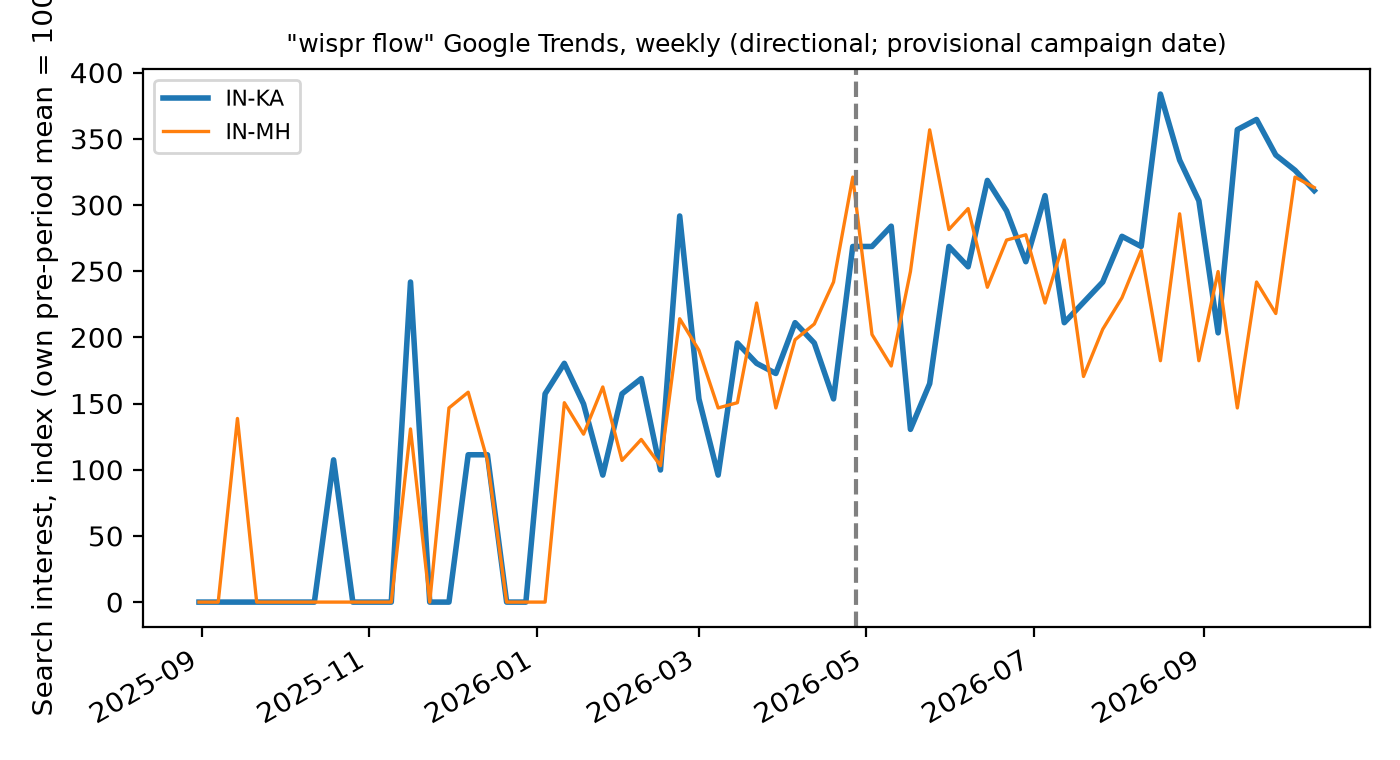
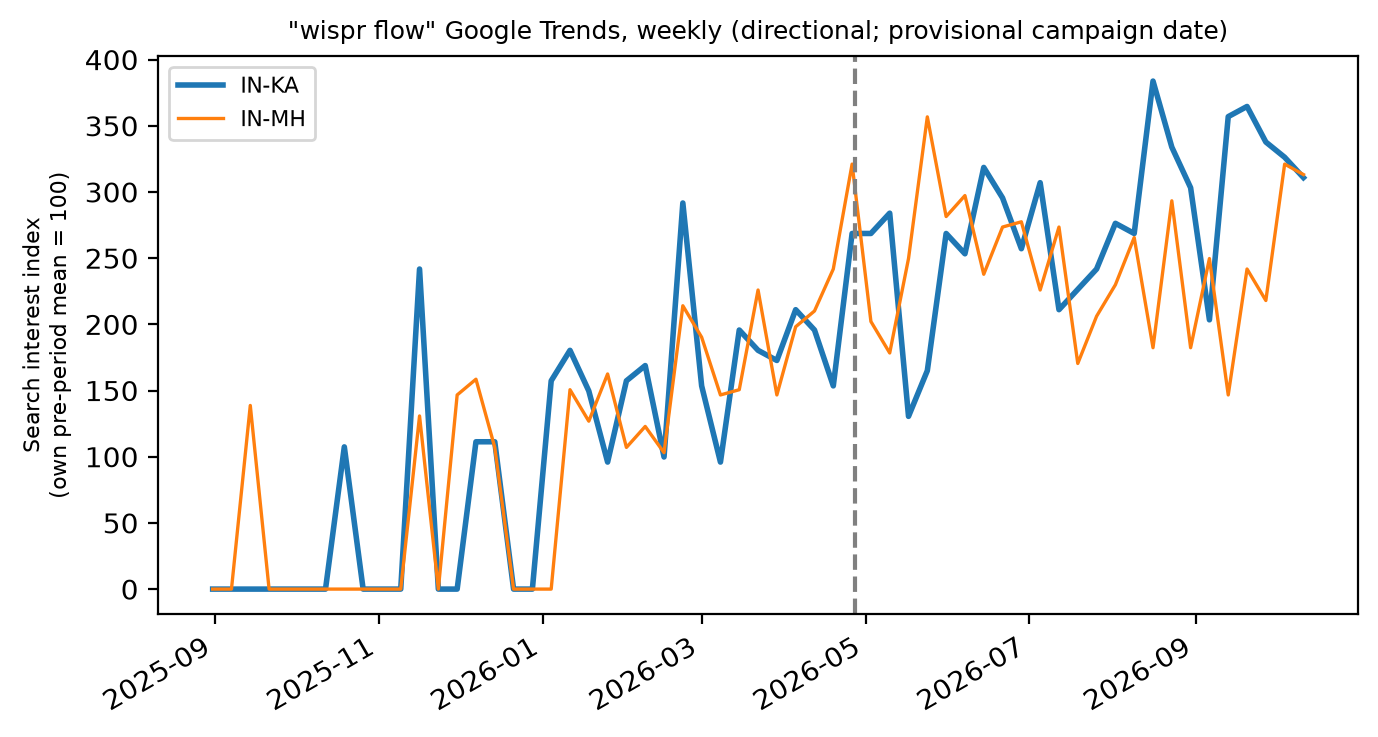
Fix clipped y-axis label on the Trends chart (smaller font, tight export)

diff --git a/src/analysis/run_p6.py b/src/analysis/run_p6.py
@@ -63,12 +63,12 @@ def a3():
         for g, s in series.items():
             ax.plot(s.index, s.values, label=g, lw=2 if g == "IN-KA" else 1.2)
         ax.axvline(EVENT, color="grey", ls="--")
-        ax.set_ylabel("Search interest, index (own pre-period mean = 100)")
+        ax.set_ylabel("Search interest index\n(own pre-period mean = 100)", fontsize=8)
         ax.set_title('"wispr flow" Google Trends, weekly (directional; provisional campaign date)', fontsize=9)
         ax.legend(fontsize=8)
         fig.autofmt_xdate()
         fig.tight_layout()
-        fig.savefig(CHARTS / "trends_event_study.png", dpi=200)
+        fig.savefig(CHARTS / "trends_event_study.png", dpi=200, bbox_inches="tight")
         plt.close(fig)
         (CHARTS / "trends_event_study.json").write_text(json.dumps({"labels": []}))
     return out
